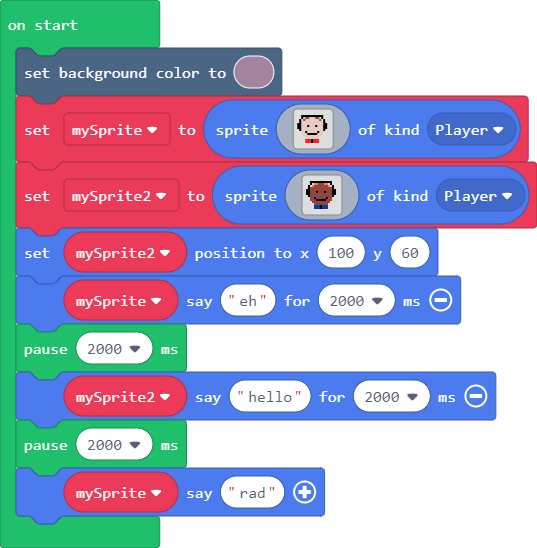
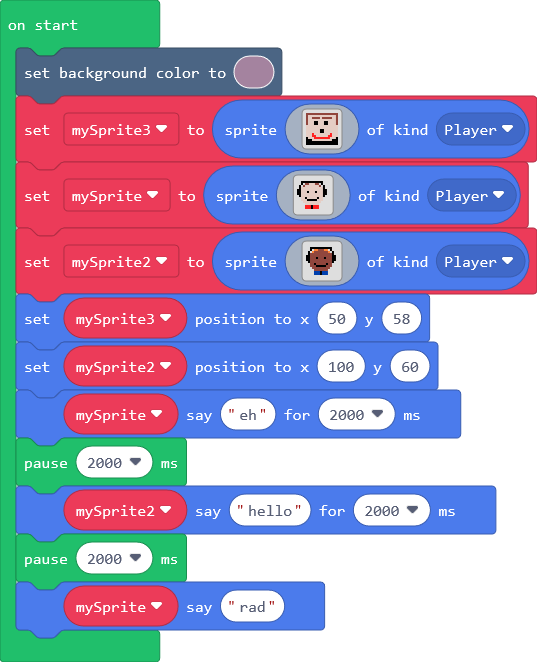
Update main.blocks, main.ts

diff --git a/main.ts b/main.ts
@@ -1,4 +1,22 @@
 scene.setBackgroundColor(11)
+let mySprite3 = sprites.create(img`
+e e e e e e e e e e e e e e e e 
+e d d d d d d d d d d d d d d e 
+e d d e e e e d e e e e e d d e 
+e d d d d d d d d d d d d d d e 
+e d d d f f d d d f f d d d d e 
+e d d d f f d d d f f d d d d e 
+d d d d d d d d d d d d d d d d 
+d d d d d d d d d d d d d d d d 
+d d d d d d d f f d d d d d d d 
+d d d d d d d f f d d d d d d d 
+d d d 2 d d d d d d d d 2 d d d 
+d d d 2 2 d d d d d d 2 2 d d d 
+f d d d 2 2 2 2 2 2 2 2 d d d f 
+f f f d d d d d d d d d d f f f 
+f f f f f f f f f f f f f f f f 
+f f f f f f f f f f f f f f f f 
+`, SpriteKind.Player)
 let mySprite = sprites.create(img`
 . . . . . . . . . . . . . . . . 
 . . f f f f f f f f f f f . . . 
@@ -35,6 +53,7 @@ f f e e e e e e e e e e e f f .
 . . . . 8 8 8 f 8 8 8 . . . . . 
 . . . . . . . . . . . . . . . . 
 `, SpriteKind.Player)
+mySprite3.setPosition(50, 58)
 mySprite2.setPosition(100, 60)
 mySprite.say("eh", 2000)
 pause(2000)
